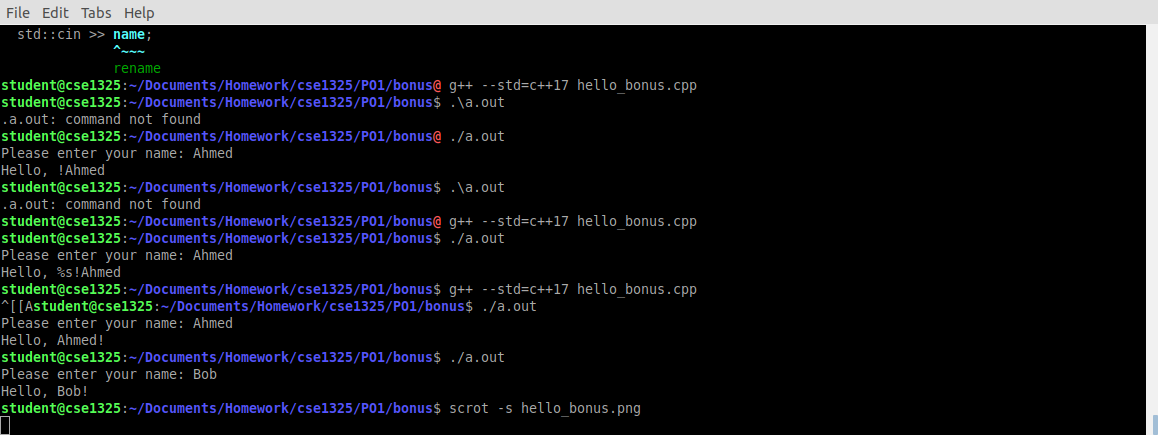
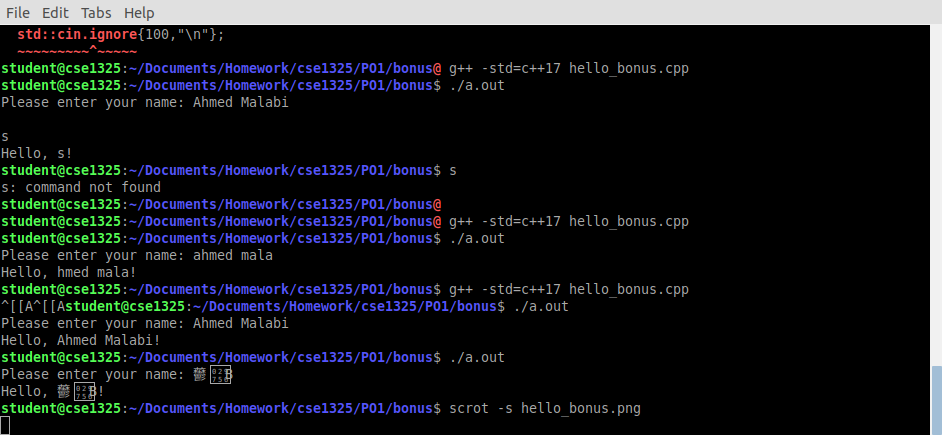
added return 0 and fixed hello bonus

Changed region(s): [[0.0, 0.0, 0.7389, 1.0], [0.9851, 0.0598, 1.0, 1.0]]

diff --git a/PO1/bonus/hello_bonus.cpp b/PO1/bonus/hello_bonus.cpp
@@ -5,6 +5,7 @@ int main()
 {
 	std::string name;
 	std::cout << "Please enter your name: ";
-	std::getline(std::cin, name) >> name;
+	std::getline(std::cin, name);
 	std::cout << "Hello, " << name << "!" << std::endl;
+	return 0;
 }

diff --git a/PO1/extreme_bonus/hello_extreme.cpp b/PO1/extreme_bonus/hello_extreme.cpp
@@ -6,4 +6,5 @@ int main()
 	std::string name;
 	name = getenv("USER");
 	std::cout << "Hello, " << name << "!" << std::endl;
+	return 0;
 }

diff --git a/PO1/full_credit/hello.cpp b/PO1/full_credit/hello.cpp
@@ -3,5 +3,6 @@
 int main()
 {
 	std::cout << "Hello, Ahmed!" << std::endl;
+	return 0;
 }
 
